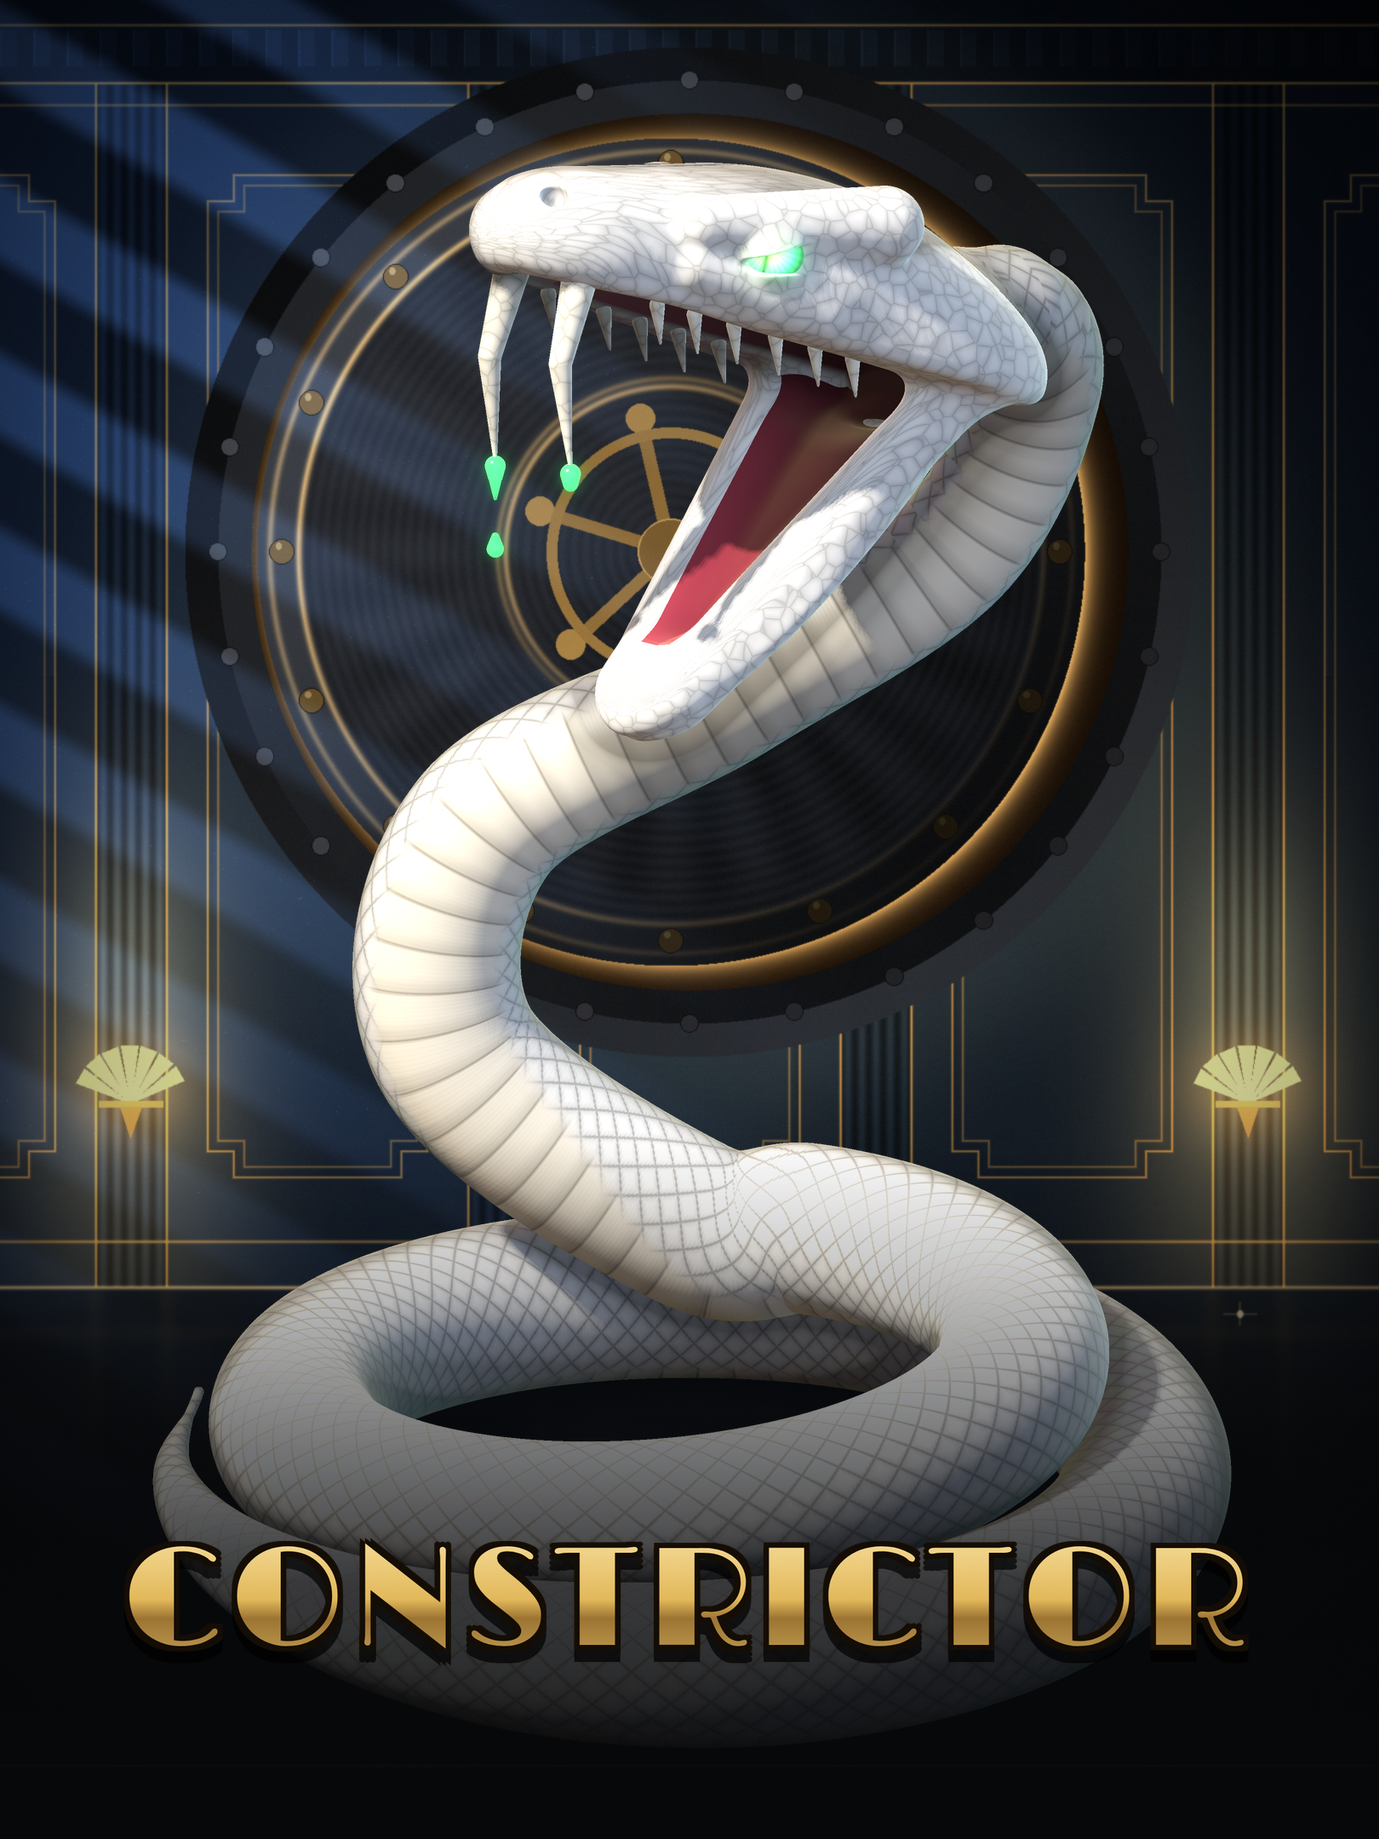
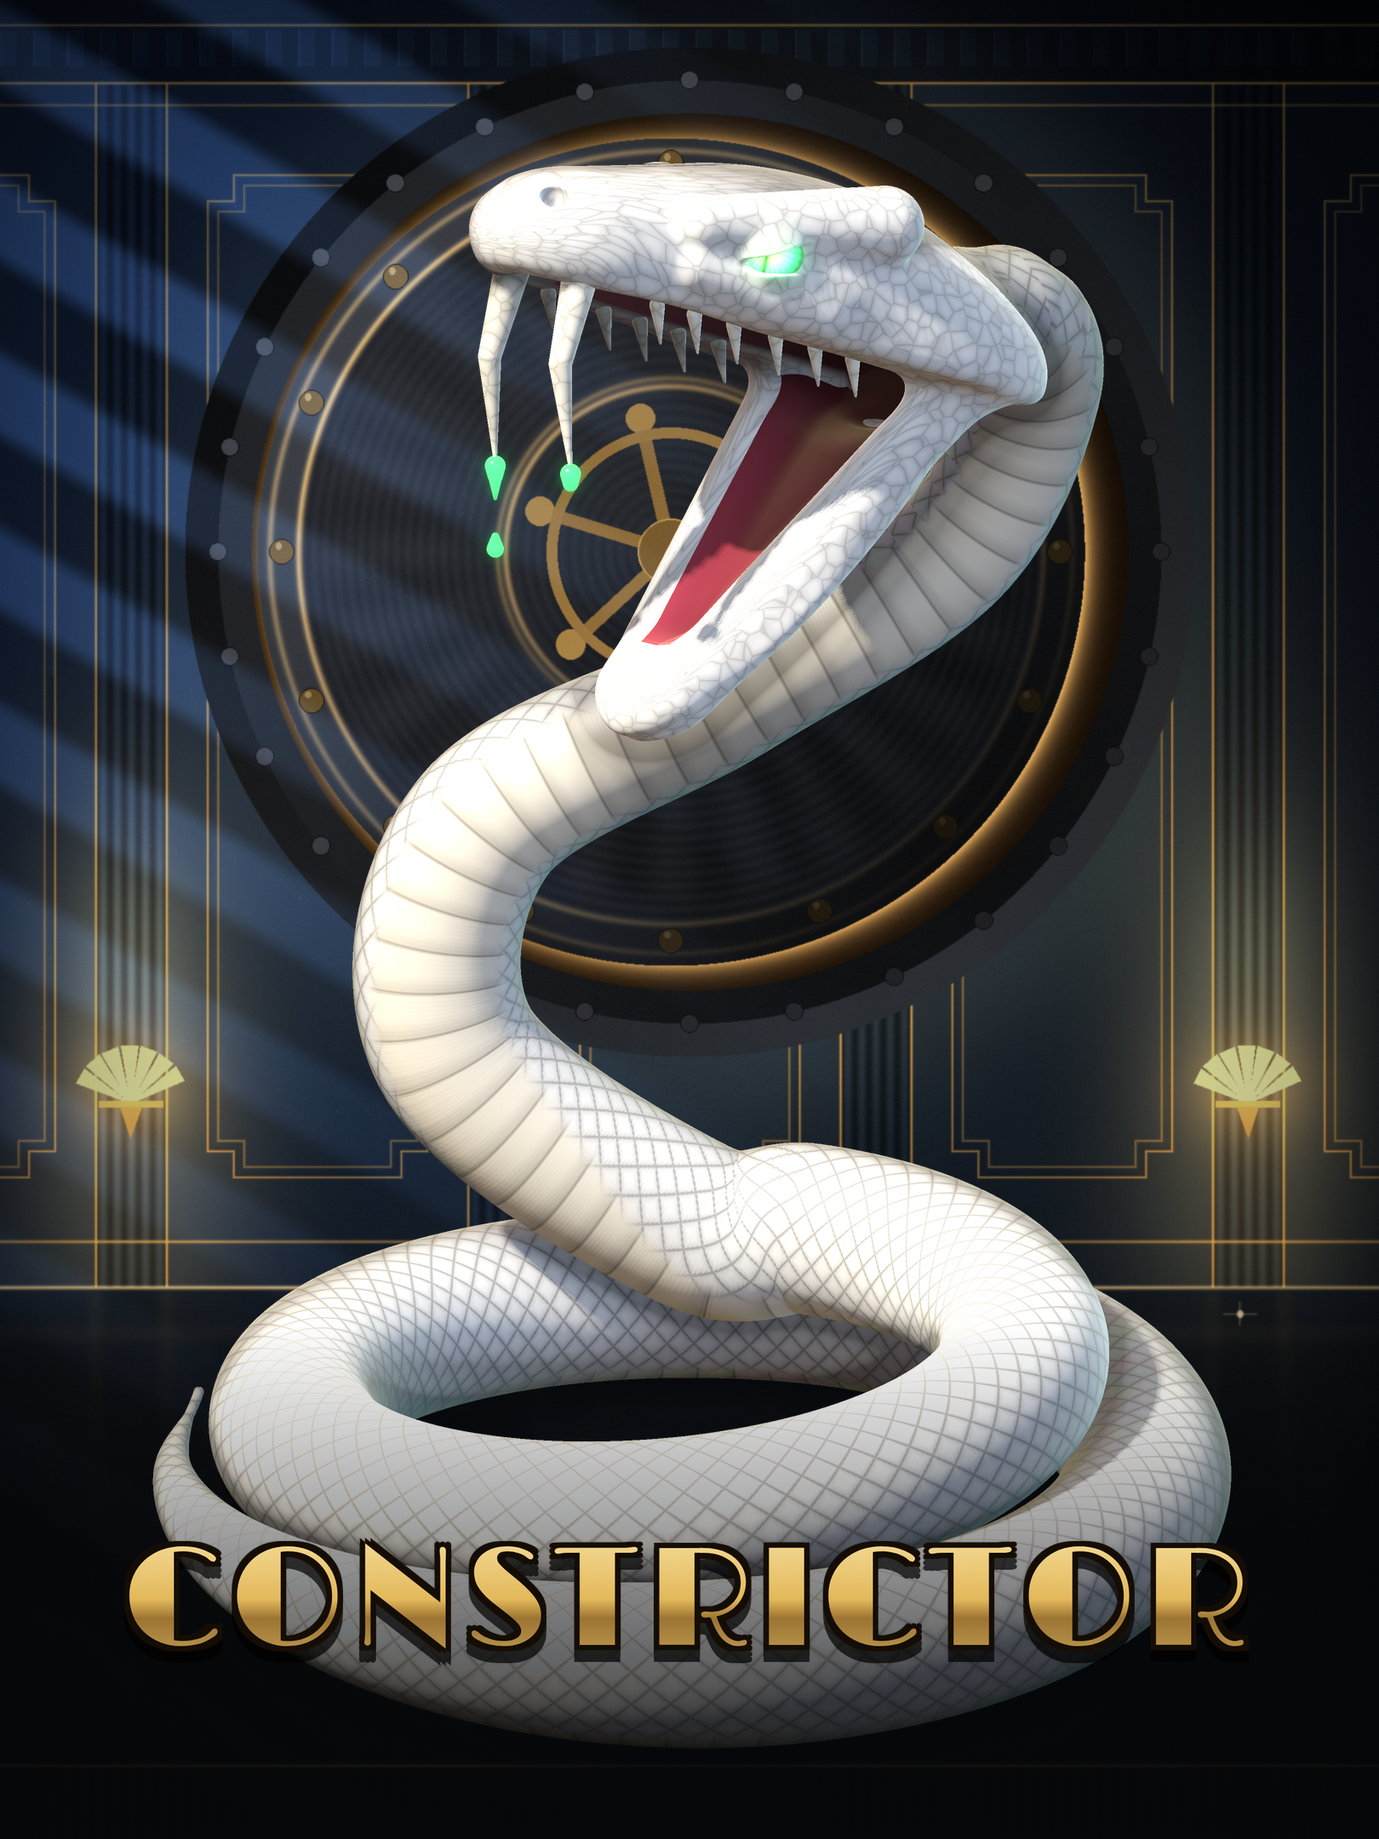
Heap the vault's treasure either side of the serpent on the 16:9 cover
Coin mounds with the owner's jewels, pearl strands, coin stacks and loose
pieces on the counter, placed in the snake's camera with shadows,
reflections and depth-matched light.

Claude-Session: https://claude.ai/code/session_01WDxZ4vsisjAtdTuz8Mf4MK

Changed region(s): [[0.0926, 0.6514, 0.8951, 0.9616]]

diff --git a/art/pipeline/cover_treasure.py b/art/pipeline/cover_treasure.py
@@ -1,0 +1,295 @@
+"""The 16:9 cover's treasure (owner request, D-057): the vault's hoard heaped on the counter either side of the angry
+serpent. Each heap is a mound of gold coins (drawn here) with the owner's own jewels (art/final, D-035) resting on
+it, a strand of pearls spilling down its side, and loose coins, pearls and gems scattered towards the snake.
+Everything is placed on the counter in the snake's own camera (angry_snake.py: the same ground plane, pitch and frame
+units) and drawn back to front, with a soft shadow under each heap, a contact shadow under every piece, cast shadows
+from the same key light as the snake, faint reflections in the polished counter, less light further back, the
+snake's shadow where it falls on a piece, and a few glints.
+
+Usage (from repo root, after cover_art.py has made foreground_3x4.png):
+    math/env/bin/python art/pipeline/cover_treasure.py
+rewrites art/cover/foreground_16x9.png and preview_16x9.png.
+"""
+
+from __future__ import annotations
+
+import math
+import os
+import sys
+
+import numpy as np
+from PIL import Image, ImageDraw, ImageFilter
+
+sys.path.insert(0, os.path.dirname(__file__))
+import angry_snake as A  # noqa: E402
+
+ROOT = os.path.normpath(os.path.join(os.path.dirname(__file__), "..", ".."))
+FINAL = os.path.join(ROOT, "art", "final")
+K = 1620.0  # pixels per frame width (the 3:4 frame) at the cover's size
+Y0 = 1.12  # the snake render's screen y of camera y = 0 (frame units)
+FLAT = A.SP  # a disc lying on the counter is foreshortened to this
+
+# the two heaps: centre (X, Z) on the counter (the coil's centre is 0, 0), radii, height
+HEAPS = [(-0.8, 0.02, 0.34, 0.24, 0.1), (0.82, 0.0, 0.33, 0.24, 0.1)]
+# the jewels: (file, X, Z, size, squash, angle, lift); they rest on the heap's surface where they are (lift adds to it)
+JEWELS = [
+    # left heap: the opal brooch crowning it
+    ("sym_L2", -0.98, -0.08, 0.15, 0.86, -12, 0.0),
+    ("sym_L4", -0.66, -0.1, 0.14, 0.86, 9, 0.0),
+    ("sym_H1", -0.81, -0.03, 0.22, 0.95, 6, 0.0),
+    ("sym_L3", -0.58, 0.07, 0.115, 0.84, 18, 0.0),
+    ("sym_L1", -0.76, 0.14, 0.125, 0.84, -28, 0.0),
+    ("pearl_black", -1.04, 0.1, 0.058, 1.0, 0, 0.0),
+    ("pearl_venom", -1.1, -0.22, 0.06, 1.0, 0, 0.0),
+    ("sym_KEY", -0.95, 0.27, 0.24, 0.62, -36, 0.0),
+    ("pearl_gold", -0.52, 0.27, 0.064, 1.0, 0, 0.0),
+    ("sym_L2", -0.46, 0.36, 0.085, 0.84, 20, 0.0),
+    # right heap: the pocket watch crowning it, the venom vial standing behind
+    ("sym_H3", 1.03, -0.16, 0.21, 1.0, 0, 0.0),
+    ("sym_EGG", 0.56, -0.24, 0.13, 1.0, -8, 0.0),
+    ("sym_L1", 0.72, -0.15, 0.11, 0.86, 22, 0.0),
+    ("sym_H4", 0.85, -0.04, 0.23, 0.95, -6, 0.0),
+    ("pearl_gold", 1.1, 0.04, 0.062, 1.0, 0, 0.0),
+    ("sym_H2", 0.63, 0.07, 0.15, 1.0, 5, 0.0),
+    ("sym_L4", 0.99, 0.13, 0.13, 0.86, -15, 0.0),
+    ("sym_L3", 0.86, 0.2, 0.12, 0.82, 24, 0.0),
+    ("sym_L2", 1.12, 0.27, 0.12, 0.86, 10, 0.0),
+    ("pearl_rose", 0.6, 0.3, 0.056, 1.0, 0, 0.0),
+    ("pearl_black", 0.48, 0.37, 0.05, 1.0, 0, 0.0),
+]
+GLINT_ON = {"sym_L2", "sym_H1", "sym_L4", "sym_L3", "sym_H4"}
+
+_cache: dict = {}
+
+
+def jewel(name, size_px, squash, angle):
+    key = (name, size_px, squash, angle)
+    if key not in _cache:
+        im = Image.open(os.path.join(FINAL, f"{name}.png")).convert("RGBA")
+        im = im.crop(im.split()[-1].point(lambda a: 255 if a > 40 else 0).getbbox())
+        k = size_px / max(im.size)
+        im = im.resize((max(1, int(im.width * k)), max(1, int(im.height * k * squash))), Image.LANCZOS)
+        _cache[key] = im.rotate(angle, resample=Image.BICUBIC, expand=True) if angle else im
+    return _cache[key]
+
+
+def coin(d_px, squash, angle, tone):
+    """A gold coin seen at a tilt: reeded edge below, a raised rim, a little gem embossed in the field, light from
+    the upper left."""
+    key = ("coin", d_px, round(squash, 2), angle, round(tone, 2))
+    if key in _cache:
+        return _cache[key]
+    S = 3
+    R = d_px * S / 2
+    th = R * 0.16 * math.sqrt(max(0.0, 1 - squash * squash)) + R * 0.03  # visible edge thickness
+    w, h = int(2 * R + 4), int(2 * R * squash + th + 4)
+    yy, xx = np.mgrid[0:h, 0:w].astype(np.float32)
+    cx, cy = w / 2, R * squash + 2
+    u = (xx - cx) / R
+    v_face = (yy - cy) / (R * squash)
+    v_edge = (yy - cy - th) / (R * squash)
+    face = u * u + v_face * v_face
+    edge_in = (u * u + v_edge * v_edge <= 1) | ((np.abs(u) <= 1) & (yy >= cy) & (yy <= cy + th))
+    gold = np.array([240, 184, 66], np.float32) * tone
+    col = np.zeros((h, w, 3), np.float32)
+    a = np.zeros((h, w), np.float32)
+    # edge: darker, reeded
+    reed = 0.85 + 0.15 * np.sin(u * 40)
+    ecol = gold * 0.42 * (0.7 + 0.45 * (-u * 0.5 + 0.5))[..., None] * reed[..., None]
+    col[edge_in] = ecol[edge_in]
+    a[edge_in] = 1
+    # face: lit from the upper left, a raised rim, a groove inside it, an embossed lozenge
+    rr = np.sqrt(face)
+    lit = 0.7 + 0.6 * np.clip(-u * 0.55 - v_face * 0.55 + 0.3, -0.7, 1)
+    rim = np.exp(-((rr - 0.9) / 0.05) ** 2)
+    groove = np.exp(-((rr - 0.8) / 0.025) ** 2)
+    loz = np.abs(u) + np.abs(v_face) * 1.25
+    emb = np.exp(-((loz - 0.32) / 0.04) ** 2) * np.sign(-u - v_face)
+    fcol = gold[None, None, :] * (lit * (1 + 0.25 * rim - 0.3 * groove + 0.22 * emb))[..., None]
+    sheen = np.exp(-(((u + 0.3) * 0.7 + (v_face + 0.35)) / 0.18) ** 2) * (rr < 1)
+    fcol += np.array([255, 240, 190], np.float32) * (0.6 * sheen)[..., None]
+    fcol *= (1 - 0.45 * np.exp(-((rr - 1.0) / 0.035) ** 2))[..., None]  # a dark line round the face
+    inface = face <= 1
+    col[inface] = fcol[inface]
+    a[inface] = 1
+    rgba = np.dstack([np.clip(col, 0, 255), a * 255]).astype(np.uint8)
+    im = Image.fromarray(rgba, "RGBA").resize((max(1, w // S), max(1, h // S)), Image.LANCZOS)
+    if angle:
+        im = im.rotate(angle, resample=Image.BICUBIC, expand=True)
+    _cache[key] = im
+    return im
+
+
+def screen(X, Z, Y, pad):
+    yc = Y * A.CP - Z * A.SP
+    return (0.5 + X) * K + pad, (Y0 - yc) * K
+
+
+def heap_height(X, Z):
+    hgt = 0.0
+    for cx, cz, rx, rz, H in HEAPS:
+        q = ((X - cx) / rx) ** 2 + ((Z - cz) / rz) ** 2
+        hgt = max(hgt, H * max(0.0, 1 - q) ** 0.85)
+    return hgt
+
+
+def build_items():
+    """Coins, jewels and pearl strands as (kind, X, Z, Y, args) on the counter and the heaps."""
+    rng = np.random.default_rng(56)
+    items = []
+    for cx, cz, rx, rz, H in HEAPS:
+        for _ in range(250):  # the mound of coins
+            r, t = math.sqrt(rng.random()) * 1.05, rng.uniform(0, 2 * math.pi)
+            X, Z = cx + r * math.cos(t) * rx, cz + r * math.sin(t) * rz
+            Y = heap_height(X, Z)
+            slope = min(1.0, Y / H)
+            squash = FLAT + (0.85 - FLAT) * rng.random() * (0.25 + 0.75 * slope)
+            items.append(("coin", X, Z, Y, (rng.uniform(0.042, 0.052), squash, int(rng.uniform(-25, 25) * slope), rng.uniform(0.86, 1.08))))
+        # a strand of pearls from the top of the heap down its front and onto the counter, curling towards the snake
+        side = -1 if cx < 0 else 1
+        pts = []
+        for k in range(36):
+            s = k / 35
+            X = cx + side * (-0.12 + 0.36 * s) + 0.03 * math.sin(s * 7)
+            Z = cz - 0.06 + 0.3 * s - 0.08 * s * s
+            pts.append((X, Z))
+        acc, last = 0.0, None
+        for X, Z in pts:
+            if last is not None:
+                acc += math.hypot(X - last[0], Z - last[1])
+                if acc < 0.024:
+                    continue
+                acc = 0.0
+            last = (X, Z)
+            items.append(("strand", X, Z, heap_height(X, Z) + 0.008, (0.027,)))
+    for X, Z, n in ((-0.5, 0.18, 4), (-1.12, -0.12, 6), (0.52, 0.17, 5), (1.15, -0.06, 3), (-0.62, 0.32, 2), (0.98, 0.33, 3)):
+        for j in range(n):  # short stacks of coins
+            items.append(("coin", X + rng.uniform(-0.003, 0.003), Z, j * 0.0075, (0.046, FLAT, 0, rng.uniform(0.92, 1.04))))
+    for _ in range(30):  # loose coins on the counter round the heaps and towards the coil
+        side = rng.choice([-1, 1])
+        X = side * rng.uniform(0.42, 1.16)
+        Z = rng.uniform(-0.38, 0.38)
+        if heap_height(X, Z) > 0.004 or (Z < 0.08 and abs(X) < 0.53):  # nothing that would sit behind the coil
+            continue
+        items.append(("coin", X, Z, 0.0, (rng.uniform(0.04, 0.05), FLAT + 0.08 * rng.random(), 0, rng.uniform(0.86, 1.05))))
+    for name, X, Z, size, squash, angle, lift in JEWELS:
+        Y = max(0.0, heap_height(X, Z) - 0.25 * size * squash) + lift
+        items.append(("jewel", X, Z, Y, (name, size, squash, angle)))
+    return items
+
+
+def light_dir():
+    """The key light's shift on the counter per unit of height, in screen x."""
+    lw = A.c2w(A.nrm([-0.55, 0.62, 0.56]))
+    return -lw[0] / lw[1]
+
+
+def soft_ellipse(w, h, alpha, blur):
+    pad = int(blur * 3) + 2
+    im = Image.new("RGBA", (int(w) + 2 * pad, int(h) + 2 * pad), (0, 0, 0, 0))
+    ImageDraw.Draw(im).ellipse([pad, pad, pad + w, pad + h], fill=(3, 4, 6, int(alpha)))
+    return im.filter(ImageFilter.GaussianBlur(blur)), pad
+
+
+def add_treasure(snake34, wide_w=3840):
+    """The 16:9 foreground: the 3:4 snake layer in the middle and the hoard round it."""
+    h = snake34.height
+    pad = (wide_w - snake34.width) // 2
+    snake = Image.new("RGBA", (wide_w, h), (0, 0, 0, 0))
+    snake.paste(snake34, (pad, 0))
+    sa = np.asarray(snake, np.float32)
+    snake_shade = sa[..., 3] / 255 * (1 - sa[..., :3].mean(-1) / 255)
+    gx = light_dir()
+    out = Image.new("RGBA", (wide_w, h), (0, 0, 0, 0))
+    # under each heap: a broad soft shadow, and its cast shadow thrown to the right
+    for cx, cz, rx, rz, H in HEAPS:
+        bx, by = screen(cx, cz, 0, pad)
+        for dx, scale, alpha in ((0.0, 1.08, 150), (gx * H * 0.9 * K, 1.0, 80)):
+            sw, sh = 2 * rx * K * scale, 2 * rz * FLAT * K * scale
+            e, p = soft_ellipse(sw, sh, alpha, 0.03 * K)
+            out.alpha_composite(e, (int(bx + dx - sw / 2 - p), int(by - sh / 2 - p)))
+    rng = np.random.default_rng(7)
+    mass = Image.new("RGBA", (wide_w, h), (0, 0, 0, 0))
+    md = ImageDraw.Draw(mass)
+    for cx, cz, rx, rz, H in HEAPS:
+        for _ in range(900):
+            r, t = math.sqrt(rng.random()) * 0.95, rng.uniform(0, 2 * math.pi)
+            X, Z = cx + r * math.cos(t) * rx, cz + r * math.sin(t) * rz
+            bx, by = screen(X, Z, heap_height(X, Z), pad)
+            cr = 0.022 * K
+            tone = rng.uniform(0.25, 0.5)
+            md.ellipse([bx - cr, by - cr * 0.55, bx + cr, by + cr * 0.55], fill=(int(200 * tone), int(150 * tone), int(60 * tone), 255))
+    out.alpha_composite(mass.filter(ImageFilter.GaussianBlur(2)))
+    out.alpha_composite(snake)  # nothing of the hoard sits behind the snake
+    items = sorted(build_items(), key=lambda t: t[3] * A.SP + t[2] * A.CP)  # back to front
+    glints = []
+    for kind, X, Z, Y, args in items:
+        if kind == "coin":
+            d, squash, angle, tone = args
+            im = coin(int(d * K), squash, angle, tone)
+        elif kind == "strand":
+            im = jewel("pearl_white", int(args[0] * K), 1.0, 0)
+        else:
+            name, size, squash, angle = args
+            im = jewel(name, int(size * K), squash, angle)
+        bx, by = screen(X, Z, Y, pad)
+        sh = float(snake_shade[int(np.clip(by - 4, 0, h - 1)), int(np.clip(bx, 0, wide_w - 1))])
+        k = (0.78 + 0.22 * np.clip((Z + 0.35) / 0.7, 0, 1)) * (1 - 0.6 * sh)
+        arr = np.asarray(im, np.float32).copy()
+        arr[..., :3] *= k
+        lit = Image.fromarray(np.clip(arr, 0, 255).astype(np.uint8), "RGBA")
+        sink = 0.5 if kind == "coin" else 0.12  # coins lie in the heap, jewels sit on it
+        x0, y0 = int(bx - im.width / 2), int(by - im.height * (1 - sink))
+        big = kind == "jewel"
+        if big and Y < 0.004:
+            # reflection in the polished counter
+            refl = lit.transpose(Image.FLIP_TOP_BOTTOM)
+            ra = np.asarray(refl, np.float32).copy()
+            fade = np.clip(1 - np.linspace(0, 1, refl.height) / 0.45, 0, 1) ** 1.5
+            ra[..., 3] *= 0.2 * fade[:, None]
+            ra[..., :3] *= 0.7
+            out.alpha_composite(Image.fromarray(ra.astype(np.uint8), "RGBA").filter(ImageFilter.GaussianBlur(2)), (x0, y0 + im.height - 2))
+        if big:
+            # cast shadow: the silhouette flattened and thrown away from the key light
+            ht = im.height / K
+            flat = im.split()[-1].resize((im.width, max(1, int(im.height * 0.28))))
+            shift, fh = gx * ht * K, flat.height
+            flat = flat.transform((int(flat.width + abs(shift)) + 4, fh), Image.AFFINE, (1, shift / fh, -shift, 0, 1, 0), resample=Image.BILINEAR)
+            cs = Image.new("RGBA", flat.size, (4, 5, 8, 0))
+            cs.putalpha(flat.point(lambda q: int(q * 0.4)))
+            out.alpha_composite(cs.filter(ImageFilter.GaussianBlur(max(2, im.width // 22))), (x0, int(y0 + im.height - fh)))
+        # contact shadow right under it
+        cw = im.width * (0.86 if big or kind == "strand" else 0.95)
+        e, p = soft_ellipse(cw, max(4, cw * (0.24 if big else 0.32)), 175 if big else 120, max(2, cw * 0.06))
+        out.alpha_composite(e, (int(bx - cw / 2 - p), int(y0 + im.height - cw * 0.16 - p)))
+        out.alpha_composite(lit, (x0, y0))
+        if big and args[0] in GLINT_ON:
+            glints.append((x0 + im.width * 0.35, y0 + im.height * 0.3, im.width))
+    # glints: four-point stars on the brightest jewels
+    gl = Image.new("RGBA", (wide_w, h), (0, 0, 0, 0))
+    d = ImageDraw.Draw(gl)
+    for cx, cy, w in glints:
+        r = w * 0.16
+        for ang, ln in ((0, 1.0), (90, 1.0), (45, 0.45), (135, 0.45)):
+            dx, dy = math.cos(math.radians(ang)) * r * ln, math.sin(math.radians(ang)) * r * ln
+            d.line([(cx - dx, cy - dy), (cx + dx, cy + dy)], fill=(255, 246, 220, 200), width=max(2, int(w * 0.012)))
+        d.ellipse([cx - r * 0.12, cy - r * 0.12, cx + r * 0.12, cy + r * 0.12], fill=(255, 250, 235, 255))
+    out.alpha_composite(Image.alpha_composite(gl.filter(ImageFilter.GaussianBlur(6)), gl.filter(ImageFilter.GaussianBlur(1))))
+    return out
+
+
+def main():
+    import cover_art as C
+
+    snake34 = Image.open(os.path.join(C.OUT, "foreground_3x4.png")).convert("RGBA")
+    fg = add_treasure(snake34, C.WIDE_W)
+    fg.save(os.path.join(C.OUT, "foreground_16x9.png"), optimize=True)
+    title = Image.open(os.path.join(C.OUT, "title.png")).convert("RGBA")
+    for tag, f in (("3x4", snake34), ("16x9", fg)):
+        bg = Image.open(os.path.join(C.OUT, f"background_{tag}.png")).convert("RGB")
+        C.preview(bg, f, title, C.SAFE_W).save(os.path.join(C.OUT, f"preview_{tag}.png"), optimize=True)
+    print("wrote foreground_16x9.png and the previews")
+
+
+if __name__ == "__main__":
+    main()

diff --git a/art/pipeline/cover_art.py b/art/pipeline/cover_art.py
@@ -2,7 +2,8 @@
 16:9. The vault is composed for the 3:4 frame; the 16:9 cover is the same picture with more of the strongroom either
 side (the room is rendered once, wide, and the 3:4 is its centre), so the two always match. The foreground is the
 angry white serpent (angry_snake.py) reared up out of its coils on the counter, jaws wide, fangs dripping venom,
-inside the 3:4 frame; at 16:9 it sits in the same place with clear air either side. No text in either layer; the
+inside the 3:4 frame; at 16:9 it sits in the same place with the vault's hoard heaped on the counter either side
+(cover_treasure.py: coin mounds, the owner's jewels, pearl strands, D-057). No text in either layer; the
 title is a separate transparent PNG (frontend/apps/constrictor/scripts/cover_title.mjs), and previews show the layers
 assembled with it.
 
@@ -20,6 +21,7 @@ from PIL import Image
 
 sys.path.insert(0, os.path.dirname(__file__))
 import angry_snake  # noqa: E402
+import cover_treasure  # noqa: E402
 import placeholders as P  # noqa: E402
 
 ROOT = os.path.normpath(os.path.join(os.path.dirname(__file__), "..", ".."))
@@ -50,9 +52,8 @@ def backgrounds():
 
 def foregrounds():
     snake, *_ = angry_snake.render(SAFE_W, H, 2)
-    wide = Image.new("RGBA", (WIDE_W, H), (0, 0, 0, 0))
-    wide.paste(snake, (PAD, 0))  # an exact copy: the 3:4 layer is the 16:9 layer's centre
-    return snake, wide
+    # the 16:9 layer: the same snake in the middle (exact pixels) and the hoard heaped either side of it (D-057)
+    return snake, cover_treasure.add_treasure(snake, WIDE_W)
 
 
 def preview(bg, fg, title, frame_w):
@@ -61,7 +62,7 @@ def preview(bg, fg, title, frame_w):
     im.alpha_composite(fg)
     w, h = im.size
     v = np.linspace(0, 1, h, dtype=np.float32)
-    g = np.clip(np.interp(v, [0, 0.62, 0.86, 1.0], [0, 0, 0.8, 0.95]), 0, 1)
+    g = np.clip(np.interp(v, [0, 0.72, 0.9, 1.0], [0, 0, 0.62, 0.85]), 0, 1)
     grad = np.zeros((h, w, 4), np.uint8)
     grad[..., :3] = (7, 8, 10)
     grad[..., 3] = (g[:, None] * 255).astype(np.uint8)

diff --git a/docs/DECISIONS.md b/docs/DECISIONS.md
@@ -499,3 +499,15 @@ row of teeth, venom (the game's green) dripping from the fangs, a slit pupil glo
 ridge, imbricated scales with belly plates up the front of the neck, a soft shadow on the counter. It sits inside the
 3:4 frame; `foreground_16x9.png` is the same pixels with clear margins. The title is unchanged (`title.png`);
 `cover_art.py` now assembles the previews.
+
+### D-057: The 16:9 cover's foreground gets the vault's hoard
+Owner request: keep the angry serpent and add the gems round it so the 16:9 looks full and natural. The 16:9
+foreground (`art/pipeline/cover_treasure.py`) is the 3:4 snake layer in the middle with a heap of treasure on the
+counter either side: a mound of gold coins (drawn procedurally, lit from the upper left, reeded edges) over a mass of
+coins in shadow, the owner's jewels resting on it (the opal brooch crowning the left heap with the sapphire,
+amethyst, ruby, citrine and the key; the pocket watch crowning the right one with the snake ring, venom vial, egg and
+gems), a pearl strand spilling down each heap, a few coin stacks and loose coins and pearls towards the snake. Every
+piece is placed on the counter in the snake's own camera and drawn back to front, with a soft shadow under each heap,
+contact and cast shadows from the snake's key light, faint reflections in the polished counter, less light further
+back, the snake's shadow where it falls on a piece, and a few glints. Nothing sits behind the coil. The 3:4 layers
+are unchanged; the preview's bottom gradient is lighter so the heaps stay bright under the title.
